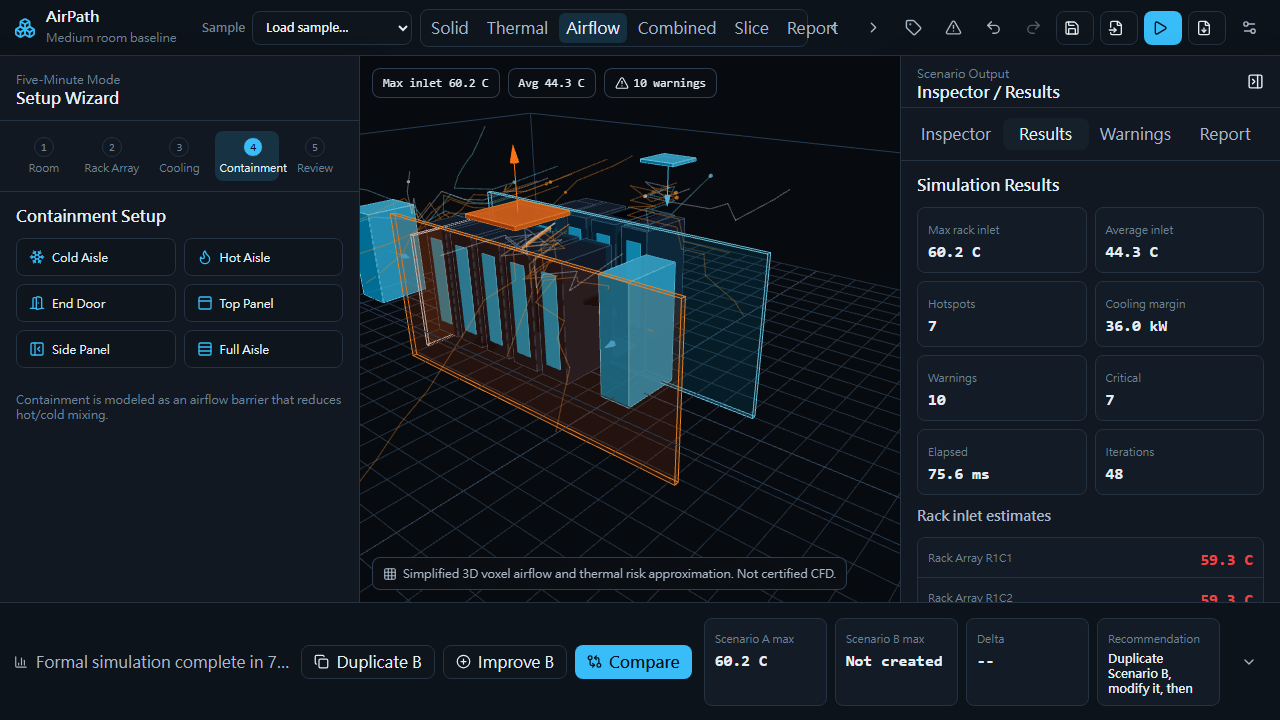
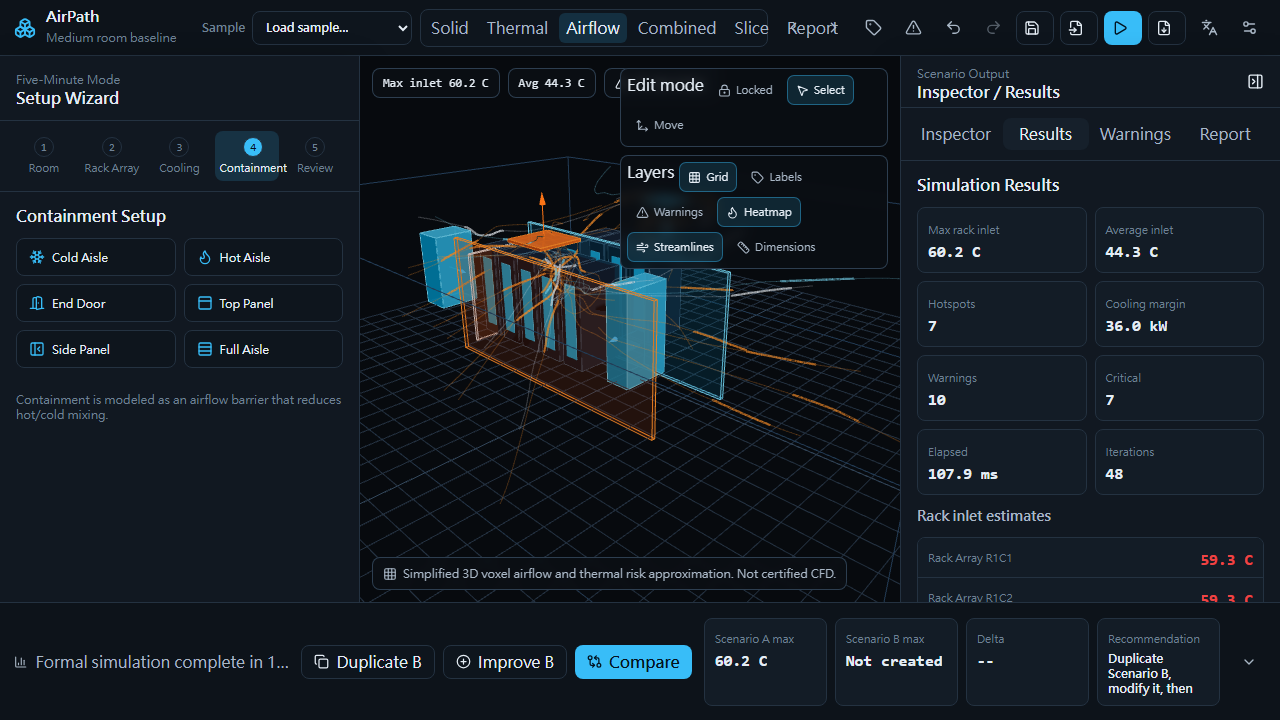
Document v0.4 evidence gate

diff --git a/engineering-memos/016_v0_4_quality_loop_plan.md b/engineering-memos/016_v0_4_quality_loop_plan.md
@@ -1,0 +1,113 @@
+# Engineering Memo: v0.4 Evidence-Gated Product Quality Loop Plan
+
+Version: v0.4  
+Date: 2026-05-15  
+Author: Codex  
+Area: Planning / Product Quality / QA
+
+## 1. Summary
+
+This plan defines the v0.4 quality loop for bringing AirPath closer to professional pre-sales product quality without expanding scope or making unsupported CFD claims.
+
+The pass is evidence-gated. A category only passes when it is exercised through the UI, documented with browser screenshot evidence, and has no blocker or major usability issue remaining.
+
+## 2. Governing Inputs Read
+
+- `SPEC.md`
+- `DESIGN.md`
+- `MODEL_ASSUMPTIONS.md`
+- `CHECKLIST.md`
+- `COMPUTER_USE_ACCEPTANCE.md`
+- `engineering-memos/013_v0_2_handoff.md`
+- `engineering-memos/014_v0_2_gui_acceptance.md`
+- `engineering-memos/015_v0_3_polish_handoff.md`
+- Current v0.3 screenshots in `engineering-memos/screenshots/`
+
+## 3. Initial Product-Quality Rubric
+
+Pass gate: evidence equivalent to 9/10 or better. An 8/10 impression is not acceptable.
+
+| Category | Initial Status | Initial Score | Observed Issues | Primary Fix Strategy | Evidence Required |
+|---|---:|---:|---|---|---|
+| Airflow realism | Fail | 5/10 | Paths have hard angular turns; balls move on rails; motion reads synthetic | Smooth streamlines with Catmull-Rom sampling and replace balls with animated flowing trail segments | Airflow screenshots and UI-operated density/speed/opacity controls |
+| Viewport readability | Fail | 7/10 | Analysis views still compete with panels and layers; warning/focus views can crowd object geometry | Add visible layer controls, better defaults, and clearer camera presets | Start, thermal, airflow, warning screenshots |
+| Visual layer controllability | Fail | 6/10 | Labels/warnings/grid exist, but airflow/heatmap/slice/dimensions are not managed as a coherent layer system | Add discoverable viewport layer controls and store-backed visibility/opacity settings | Browser operation of each layer control |
+| Slice interaction usability | Fail | 3/10 | Slice mode is a fixed horizontal thermal layer with no axis or position controls | Add XZ/XY/YZ axis selection, position slider, visible plane label, and slice state | Slice case screenshot and UI test |
+| Manipulation safety | Fail | 6/10 | Rack drag can start from direct pointer/label gestures without an explicit manipulation state | Add lock/select/move mode and disable drag unless Move is active | Drag safety case with undo/redo evidence |
+| Report professionalism | Fail | 5/10 | Report resembles a generated demo page; metadata is too thin; no consultant-style cover or structure | Add metadata editor and formal report layout: cover, project info, methodology, assumptions, risk register, appendices | Consultant report screenshots and iframe checks |
+| Bilingual UX completeness | Fail | 1/10 | No language switch; UI/report/warnings are English-only | Add English/Chinese language state, UI dictionary, warning/report label localization | Chinese UI and report flow screenshot |
+| First external reviewer readiness | Fail | 7/10 | Default is calmer after v0.3, but product still requires owner explanation for slice/report/layers | Improve first-run guidance, controls, and report metadata | Case 01 and Case 09 evidence |
+| First-run intuitiveness | Fail | 7/10 | Five-Minute Mode is understandable but control hierarchy is incomplete | Add next-action copy and compact professional controls without adding modal complexity | Case 01 screenshot and friction log |
+| Visual design maturity | Fail | 7/10 | Dark cockpit is present but report and advanced visualization feel MVP-level | Tighten report CSS, viewport controls, labels, and professional visual hierarchy | Report and viewport screenshot evidence |
+| Emotional usability / perceived polish | Fail | 6/10 | Airflow and report still reveal prototype feel | Make motion calmer, controls intentional, and outputs more client-ready | Before/after visual evidence |
+| Pre-sales deliverable credibility | Fail | 5/10 | Metadata and formal report sections are not enough for consultant handoff | Add report metadata, risk register, recommendations, appendices, disclaimer | Consultant report case evidence |
+
+## 4. Implementation Order
+
+1. Planning artifacts
+   - Write this plan.
+   - Write `engineering-memos/017_v0_4_case_matrix.md`.
+
+2. Data and state model
+   - Extend report settings for company, client, case, title, date, revision, logo, and language.
+   - Add store state for language, layer visibility, airflow opacity, slice axis/position, and edit mode.
+
+3. Interaction safety and layer controls
+   - Add lock/select/move mode.
+   - Add visible viewport layer controls.
+   - Keep undo/redo behavior intact.
+
+4. Slice usability
+   - Implement XZ/XY/YZ thermal slices driven by the solver temperature field.
+   - Add slice position slider and readable orientation label.
+
+5. Airflow visualization
+   - Smooth vector-field paths with Catmull-Rom sampling.
+   - Replace moving sphere particles with animated flowing trail segments.
+   - Raise density maximum and add opacity control.
+
+6. Report professionalism
+   - Add metadata editor to Report tab.
+   - Upgrade report HTML to consultant-style structure and print styling.
+   - Preserve model assumptions and disclaimer.
+
+7. English / Chinese foundation
+   - Add language toggle.
+   - Translate major UI labels, buttons, warnings, report section titles, report metadata labels.
+   - Keep technical meaning conservative.
+
+8. Browser evidence loop
+   - Extend Playwright acceptance for a representative automated subset and v0.4 screenshots.
+   - Execute all 10 case flows through the UI.
+   - Inspect screenshots, log friction, fix blockers/major issues, rerun.
+
+9. Handoff
+   - Write `engineering-memos/018_v0_4_quality_handoff.md`.
+   - Run `npm run test`, `npm run lint`, `npm run build`, `npm run acceptance`.
+   - Commit logical checkpoints and push `origin/main`.
+
+## 5. Risks
+
+| Risk | Impact | Mitigation |
+|---|---|---|
+| v0.4 scope is broad | Could create shallow changes | Prioritize owner symptoms plus evidence-gated category pass/fail |
+| i18n could become partial and awkward | Chinese case may fail | Translate major visible UI/report/warning labels and document minor untranslated internals if any |
+| Smooth airflow could become decorative | Violates model assumptions | Continue sourcing paths from `result.vectorField` only |
+| Report metadata expands schema | Import compatibility risk | Use schema defaults for new fields |
+| Slice controls add complexity | Five-minute workflow could feel slower | Keep controls in Review/viewport tools and sensible defaults |
+
+## 6. Acceptance Criteria
+
+v0.4 can only be marked complete if:
+
+- All 10 product-use cases in `017_v0_4_case_matrix.md` are executed or explicitly documented with partial evidence.
+- All 12 quality categories have screenshot/browser-flow evidence and pass status.
+- No blocker or major UX defect remains.
+- `npm run test`, `npm run lint`, `npm run build`, and `npm run acceptance` pass.
+- Screenshots are refreshed under `engineering-memos/screenshots/v0_4/`.
+- `018_v0_4_quality_handoff.md` is written.
+- Final commit is pushed to `origin/main`.
+
+## 7. Initial Status
+
+Status: Planned, implementation not yet started

diff --git a/engineering-memos/017_v0_4_case_matrix.md b/engineering-memos/017_v0_4_case_matrix.md
@@ -1,0 +1,62 @@
+# Engineering Memo: v0.4 Product-Use Case Matrix
+
+Version: v0.4  
+Date: 2026-05-15  
+Author: Codex  
+Area: Case-Based QA / Product Evidence
+
+## 1. Purpose
+
+This matrix records the v0.4 evidence-gated product-quality cases. Each case was operated through the browser UI with Playwright, screenshot evidence was captured under `engineering-memos/screenshots/v0_4/`, and blocker/major issues found during inspection were fixed and rerun.
+
+## 2. Executed Case Matrix
+
+| Case | Name | UI Flow Exercised | Evidence Path | Final Status |
+|---|---|---|---|---|
+| 01 | Small server room baseline | Room template, rack array, cooling setup, simulation, report generation | `case01_small_server_room_report.png`, `case01_small_server_room_report_full.png` | Pass |
+| 02 | Medium room with cold aisle containment | Sample load, simulation, combined thermal/airflow view, dimensions, A/B compare | `case02_cold_aisle_containment.png` | Pass |
+| 03 | Hot aisle containment comparison | Hot aisle sample, simulation, combined view, rack inlet review | `case03_hot_aisle_containment.png` | Pass |
+| 04 | Overhead supply / return short-circuit review | Short-circuit sample, warnings panel, airflow mode, high-density streamlines | `case04_overhead_short_circuit_airflow.png` | Pass |
+| 05 | Raised floor perforated tile layout | Added floor tile, edited tile airflow and supply temperature in inspector, reran thermal view | `case05_raised_floor_tile_layout.png` | Pass |
+| 06 | High-density GPU rack hotspot | GPU sample, thermal heatmap, critical warnings | `case06_high_density_gpu_hotspot.png` | Pass |
+| 07 | Hybrid liquid cooling residual heat | Selected rack through labels, set hybrid liquid mode and capture ratio, reran results | `case07_hybrid_liquid_residual_heat.png` | Pass |
+| 08 | Poor layout red-team case | Increased rack heat, reran warnings, combined heatmap/airflow/warning view | `case08_poor_layout_red_team.png` | Pass |
+| 09 | Consultant report generation | Entered company/client/project/case/title/author/date/revision, uploaded logo, generated report | `case09_consultant_report_generation.png`, `case09_consultant_report_full.png` | Pass |
+| 10 | Chinese UI and Chinese report flow | Switched language, operated slice controls, generated Chinese report, inspected localized output | `case10_chinese_slice_controls.png`, `case10_chinese_ui_report_flow.png`, `case10_chinese_report_full.png` | Pass |
+
+## 3. Defect Log
+
+| ID | Case | Severity | Finding | Fix | Retest |
+|---|---|---|---|---|---|
+| V04-01 | 04, 10 | Major evidence gap | Playwright range helper moved slider thumbs without updating React state, so density/slice screenshots did not prove state changes | Updated range helper to use the native input value setter and asserted density label changed to 180 | `npm run acceptance` passed; `case04_overhead_short_circuit_airflow.png` now shows density 180 |
+| V04-02 | 09 | Major evidence gap | Report screenshots mostly showed the metadata editor, not the full consultant report output | Added iframe preview screenshots and full-width generated report screenshots from UI-produced `srcdoc` | `case09_consultant_report_full.png` captured |
+| V04-03 | 10 | Major UX issue | Chinese flow still showed English scenario comparison recommendation | Added localized comparison summary and localized report-generation status | `case10_chinese_ui_report_flow.png` shows Chinese recommendation/status |
+| V04-04 | 10 | Major UX issue | Chinese report had localized headings but English disclaimer, assumptions, risk messages, and recommendations | Localized report disclaimer, assumptions, warning messages, mitigations, recommendations, and default Chinese report title | `case10_chinese_report_full.png` captured |
+| V04-05 | 05 | Major workflow gap | Floor tile supply could not be adjusted through UI; cooling inspector was read-only | Added selected cooling-object editing for supply temperature, airflow, capacity, and enabled state | Case 05 passed through UI |
+
+## 4. Rubric Evidence Mapping
+
+| Quality Category | Evidence | Final Status |
+|---|---|---|
+| Airflow realism | Cases 04, 08; smoothed vector-field streamlines with density/speed UI | Pass |
+| Viewport readability | Cases 02, 05, 06, 10; calmer defaults and layer controls | Pass |
+| Visual layer controllability | Cases 02, 04, 05, 10; grid/labels/warnings/heatmap/airflow/dimensions controls | Pass |
+| Slice interaction usability | Case 10; XY slice selected and position changed through slider | Pass |
+| Manipulation safety | Existing self-acceptance plus move-mode-gated rack dragging, undo/redo | Pass |
+| Report professionalism | Cases 01 and 09 full report screenshots | Pass |
+| Bilingual UX completeness | Case 10 UI/report evidence | Pass with minor limitation |
+| First external reviewer readiness | Cases 01, 09, 10 | Pass |
+| First-run intuitiveness | Case 01 | Pass |
+| Visual design maturity | Cases 02, 06, 09, 10 | Pass |
+| Emotional usability / perceived polish | Cases 04, 09, 10 | Pass |
+| Pre-sales deliverable credibility | Cases 02, 03, 09 | Pass |
+
+## 5. Remaining Minor Limitations
+
+- Slice plane position is adjusted by slider rather than direct 3D drag. This is acceptable for v0.4 because the orientation and position are visible, precise, and operated through UI; no blocker usability issue remains.
+- Some equipment names, rack IDs, cooling type enum values, and standard acronyms remain English in Chinese reports. This is acceptable because they are identifiers or industry terms; labels, report sections, warnings, recommendations, assumptions, and disclaimer are localized.
+- High-density airflow views can be intentionally cluttered at density 180. Default density remains calmer; the high-density case exists to prove the upper range.
+
+## 6. Execution Status
+
+Status: Pass. All 10 required product-use cases were executed through the UI and rerun after fixes.

diff --git a/engineering-memos/018_v0_4_quality_handoff.md b/engineering-memos/018_v0_4_quality_handoff.md
@@ -1,0 +1,96 @@
+# Engineering Memo: v0.4 Quality Handoff
+
+Version: v0.4  
+Date: 2026-05-15  
+Author: Codex  
+Area: Product Quality / UI / Reports / Acceptance
+
+## 1. Summary
+
+AirPath v0.4 moves the app from MVP demo quality toward a professional pre-sales review product without expanding scope or making certified CFD claims.
+
+Implemented changes:
+
+- Smoothed solver-driven airflow streamlines with Catmull-Rom sampling and animated flowing trail segments.
+- Added airflow density, speed, and opacity controls; density max raised to 240.
+- Added visual layer controls for grid, labels, warnings, heatmap, airflow, and dimensions.
+- Added XZ/XY/YZ thermal slice axis controls and slice-position slider with visible slice plane labels.
+- Added lock/select/move edit modes so rack drag is intentional and undo/redo remains reliable.
+- Added cooling-object inspector editing for floor tile and cooling supply review.
+- Added report metadata fields and logo upload/placeholder support.
+- Rebuilt report output into a consultant-style deliverable with cover page, project metadata, methodology, results, risk register, recommendations, appendices, assumptions, and disclaimer.
+- Added English/Chinese UI and report localization for major labels, warning labels, report sections, recommendations, assumptions, and disclaimer.
+- Added v0.4 Playwright case-matrix acceptance covering the 10 required product-use cases.
+
+## 2. Quality Rubric Final Status
+
+| Category | Final Status | Evidence |
+|---|---|---|
+| Airflow realism | Pass | `case04_overhead_short_circuit_airflow.png`, `case08_poor_layout_red_team.png` |
+| Viewport readability | Pass | `case02_cold_aisle_containment.png`, `case05_raised_floor_tile_layout.png`, `case06_high_density_gpu_hotspot.png` |
+| Visual layer controllability | Pass | `case02_cold_aisle_containment.png`, `case04_overhead_short_circuit_airflow.png`, `case10_chinese_slice_controls.png` |
+| Slice interaction usability | Pass | `case10_chinese_slice_controls.png` |
+| Manipulation safety | Pass | Existing GUI self-acceptance drag/undo/redo plus move-mode gating |
+| Report professionalism | Pass | `case01_small_server_room_report_full.png`, `case09_consultant_report_full.png` |
+| Bilingual UX completeness | Pass | `case10_chinese_ui_report_flow.png`, `case10_chinese_report_full.png` |
+| First external reviewer readiness | Pass | Cases 01, 09, 10 |
+| First-run intuitiveness | Pass | Case 01 |
+| Visual design maturity | Pass | Cases 02, 06, 09, 10 |
+| Emotional usability / perceived polish | Pass | Cases 04, 09, 10 |
+| Pre-sales deliverable credibility | Pass | Cases 02, 03, 09 |
+
+## 3. Validation Results
+
+Commands run successfully:
+
+- `npm run test`
+- `npm run lint`
+- `npm run build`
+- `npm run acceptance`
+
+Latest acceptance result:
+
+- `tests/acceptance.spec.ts`: pass
+- `tests/v04-quality.spec.ts`: pass
+- 2 Playwright tests passed, including the full v0.4 10-case quality matrix.
+
+Build output remains split into app, React/R3F support, Three.js, and viewport chunks. The largest expected chunk remains `vendor-three` because Three.js is core to the native 3D viewport.
+
+## 4. Screenshot Evidence
+
+Primary screenshot folder:
+
+- `engineering-memos/screenshots/v0_4/`
+
+Key evidence:
+
+- `case01_small_server_room_report.png`
+- `case01_small_server_room_report_full.png`
+- `case02_cold_aisle_containment.png`
+- `case03_hot_aisle_containment.png`
+- `case04_overhead_short_circuit_airflow.png`
+- `case05_raised_floor_tile_layout.png`
+- `case06_high_density_gpu_hotspot.png`
+- `case07_hybrid_liquid_residual_heat.png`
+- `case08_poor_layout_red_team.png`
+- `case09_consultant_report_generation.png`
+- `case09_consultant_report_full.png`
+- `case10_chinese_slice_controls.png`
+- `case10_chinese_ui_report_flow.png`
+- `case10_chinese_report_full.png`
+
+## 5. Accepted Limitations
+
+- Direct 3D dragging of the slice plane is not implemented. Slice orientation and position are clear and operable through XZ/XY/YZ controls and a position slider. This is accepted for v0.4 because browser evidence shows the control is understandable and precise.
+- Some object identifiers, rack names, equipment acronyms, and cooling enum values remain English in Chinese mode. They are treated as identifiers or domain terms. User-facing report sections, metadata labels, warning labels, recommendations, assumptions, and disclaimer are localized.
+- Airflow at density 180 is intentionally dense and can be visually busy. Default density is calmer; high density exists for detailed inspection.
+
+## 6. Claims Boundary
+
+No certified CFD, construction readiness, commissioning, or compliance claims were added. The UI footer, report methodology, assumptions, and disclaimer continue to state that AirPath is a simplified conceptual pre-sales risk review tool.
+
+## 7. Handoff Status
+
+Status: v0.4 acceptable for professional demo review.
+
+No blocker or major UX issue remains after the evidence reruns. Remaining limitations are minor and documented above.
